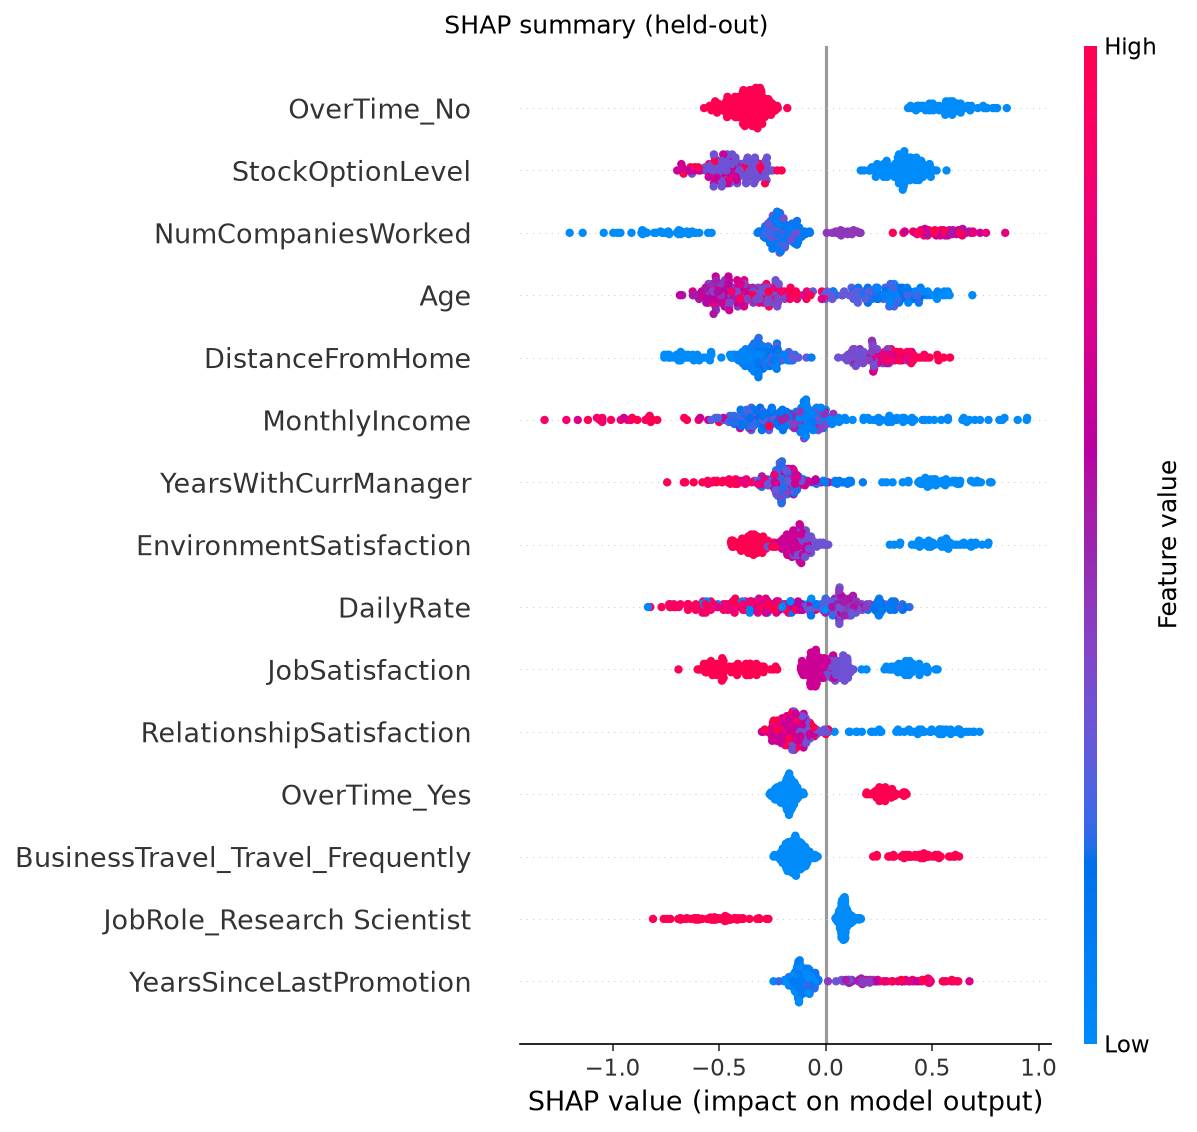
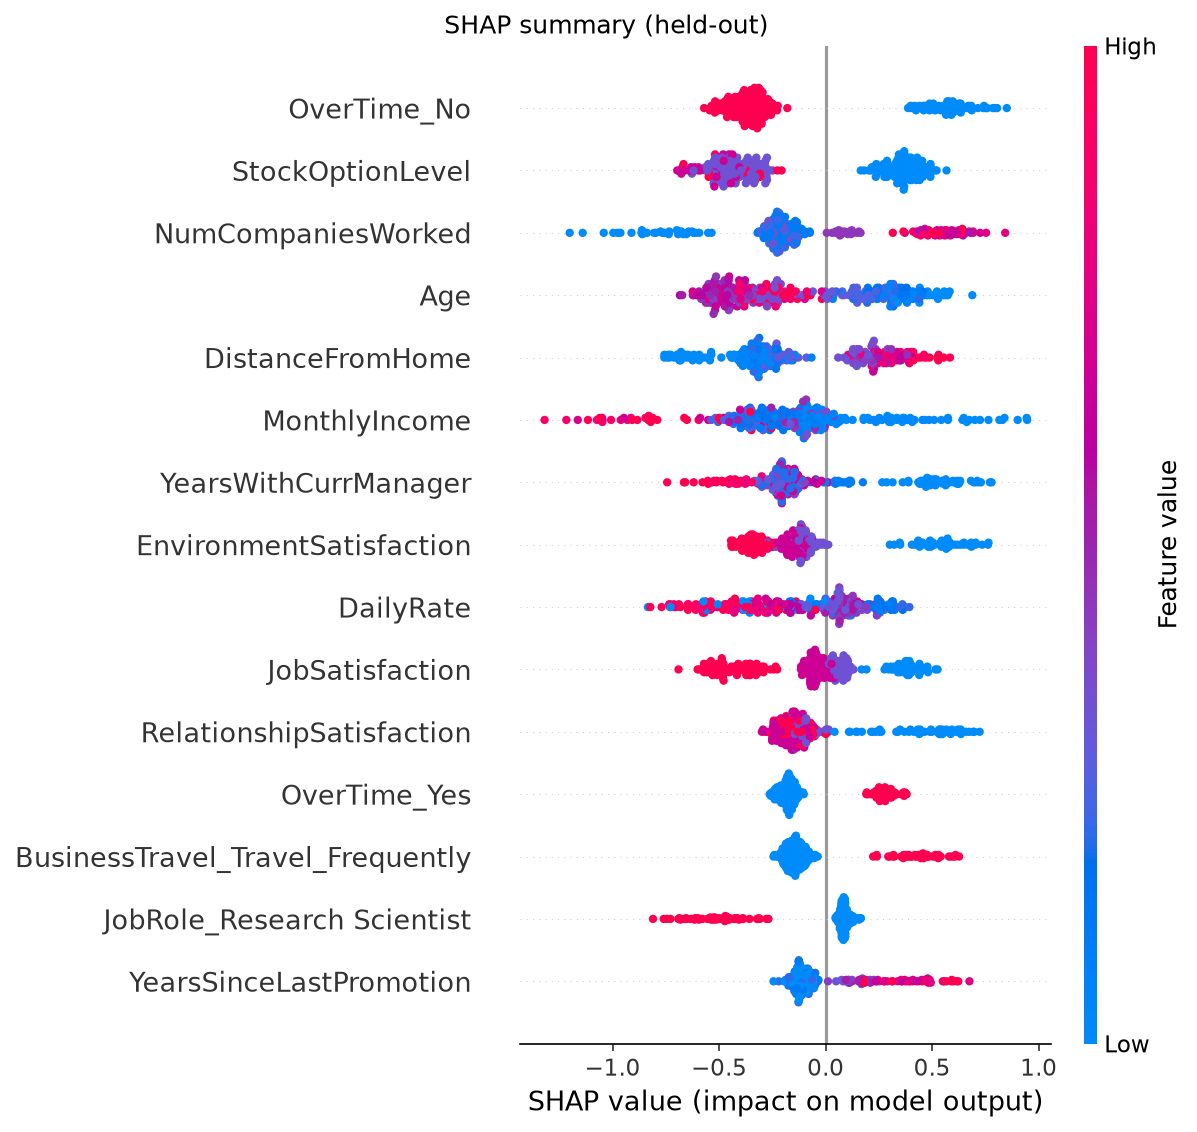
fix: seed the SHAP beeswarm so the committed figure is reproducible; README corrections

diff --git a/src/turnover/plots.py b/src/turnover/plots.py
@@ -43,7 +43,8 @@ def confusion(cm: dict, path):
 
 def shap_summary(values, X, path):
     plt.figure()
-    shap.summary_plot(values, X, max_display=15, show=False)
+    # Seeded so the beeswarm jitter, and therefore the committed figure, is reproducible.
+    shap.summary_plot(values, X, max_display=15, show=False, rng=np.random.default_rng(0))
     fig = plt.gcf()
     fig.suptitle("SHAP summary (held-out)", y=1.0)
     _save(fig, path)

diff --git a/README.md b/README.md
@@ -40,6 +40,8 @@ Overtime, stock option level, number of previous employers, age, commute distanc
 
 ## Quickstart
 
+On macOS, XGBoost needs the OpenMP runtime first: `brew install libomp`. Without it, training and the tests fail at import.
+
 ```bash
 uv venv --python 3.12 .venv
 uv pip install -p .venv -r requirements.txt
@@ -53,8 +55,6 @@ make dashboard        # Streamlit app on http://localhost:8501
 PYTHONPATH=src .venv/bin/python -m turnover.predict \
   --employee-json '{"Age": 27, "OverTime": "Yes", "MonthlyIncome": 2300, "JobLevel": 1, "StockOptionLevel": 0}'
 ```
-
-macOS: XGBoost needs the OpenMP runtime (`brew install libomp`).
 
 The predict command prints the probability, a risk band (low < 0.25 <= medium < 0.5 <= high) and the top SHAP drivers for that employee as JSON.
 
@@ -90,8 +90,8 @@ assets/           pipeline diagram
 - Calibrate probabilities and report calibration curves.
 - Compare against a logistic regression baseline and a leakage-free time-based split on data that has timestamps.
 - Review fairness across gender, age and marital status before any real-world use. Predicting individual attrition has real ethical risks and should drive support, not penalties.
-- Package the dashboard for deployment and add CI.
+- Package the dashboard for deployment.
 
 ## Data and licence
 
-Data: the IBM HR Analytics Employee Attrition & Performance sample dataset, a fictional dataset created by IBM data scientists and widely distributed (for example on Kaggle). The copy in `data/` was downloaded from https://raw.githubusercontent.com/nelson-wu/employee-attrition-ml/master/WA_Fn-UseC_-HR-Employee-Attrition.csv (the file only had a BOM and CRLF line endings stripped). It is third-party data; I have not found an explicit licence in the file itself, so check the original source's terms before reusing it. Code is released under the MIT licence (see `LICENSE`).
+Data: the IBM HR Analytics Employee Attrition & Performance sample dataset, a fictional dataset created by IBM data scientists and widely distributed; its usual home is the [Kaggle dataset page](https://www.kaggle.com/datasets/pavansubhasht/ibm-hr-analytics-attrition-dataset), where the current licence terms are listed. The copy in `data/` was downloaded from https://raw.githubusercontent.com/nelson-wu/employee-attrition-ml/master/WA_Fn-UseC_-HR-Employee-Attrition.csv (the file only had a BOM and CRLF line endings stripped). It is third-party data; I have not found an explicit licence in the file itself, so check the original source's terms before reusing it. Code is released under the MIT licence (see `LICENSE`).
